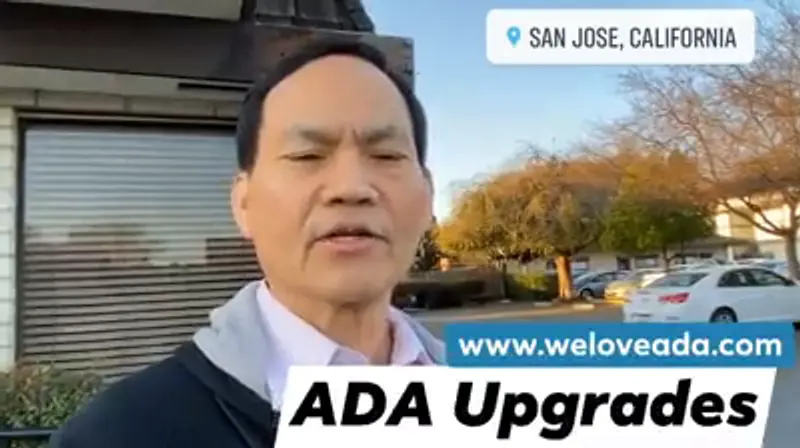
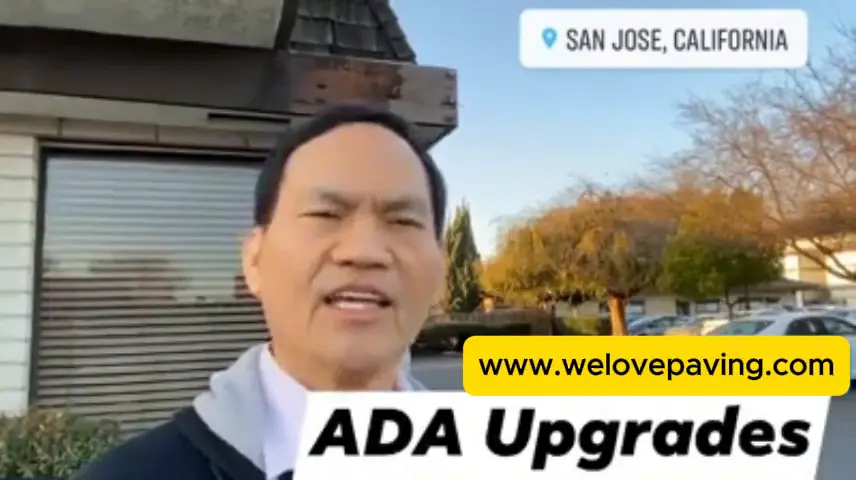
Replace testimonial video with the new higher-res cut
New doctor testimonial (856×480, 91s, branded overlays) replaces the old
400×224 clip. Re-encoded for web: 55.5MB source → 5.3MB (H.264 CRF 27,
faststart), new poster pulled from a frame of the new video. The <video>
width/height updated to 856×480 — same 16:9, so the card still fills without
letterbox. preload="none" unchanged, so it only loads on click.

diff --git a/index.html b/index.html
@@ -530,7 +530,7 @@
                click, so from then on the browser owns playback. -->
           <video class="video-local" preload="none" playsinline
                  poster="video/testimonial-poster.webp"
-                 width="400" height="224">
+                 width="856" height="480">
             <source src="video/doctor-medical-office-testimonial.mp4" type="video/mp4">
           </video>
           <button type="button" class="video-cover"